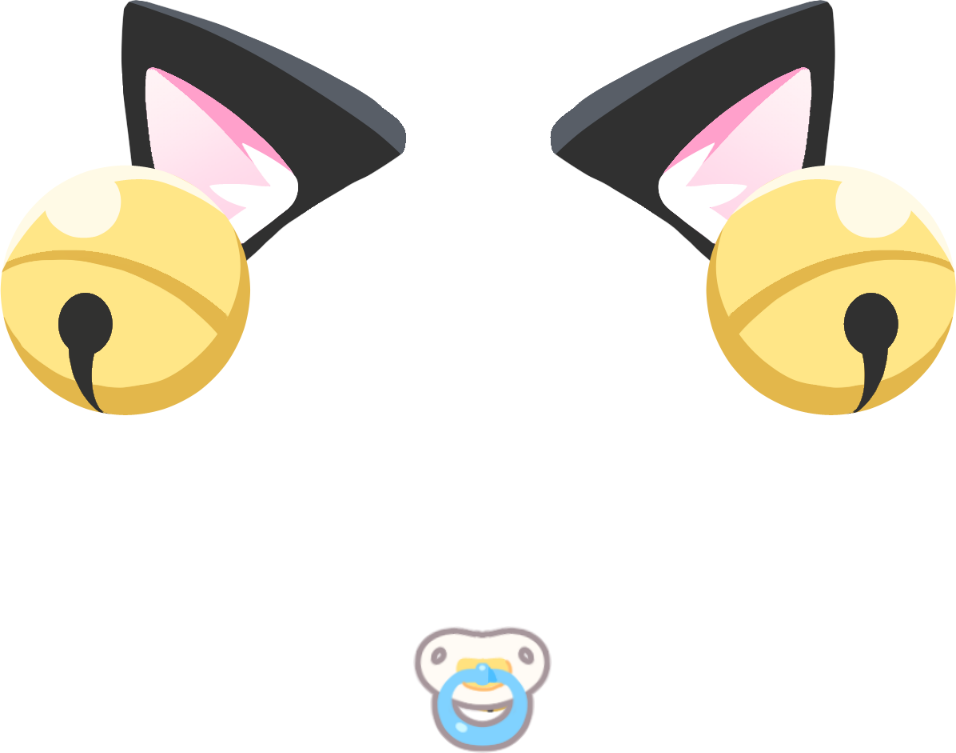
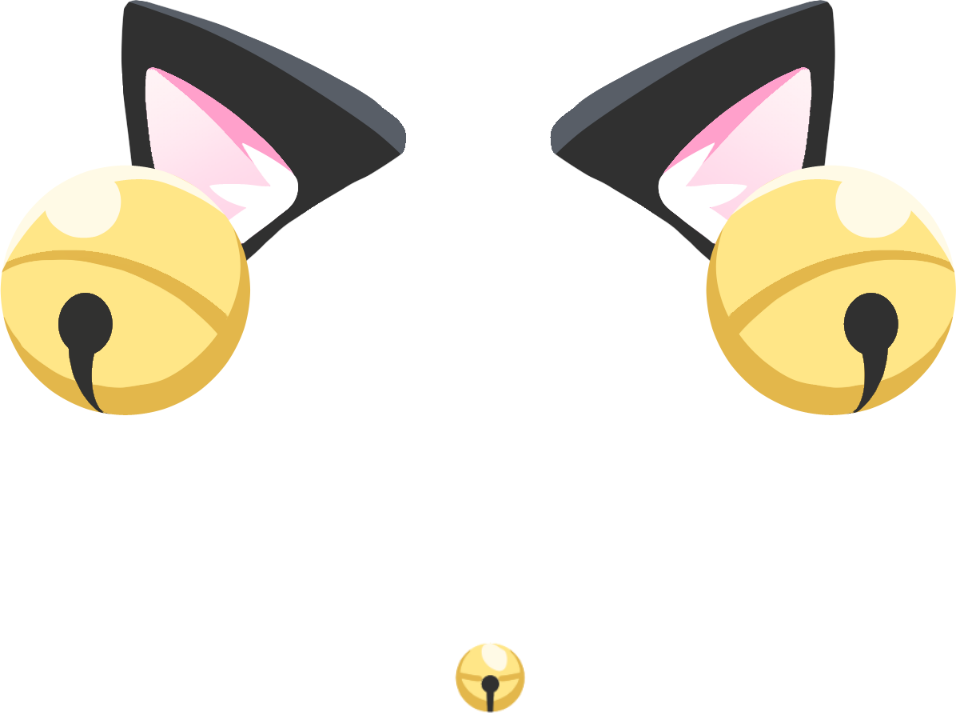
update v1787692767

diff --git a/mascot.py b/mascot.py
@@ -18234,11 +18234,11 @@ class Mascot:
             h9 = float(sz9[1]) * self.s
         except Exception:
             return
-        # **주변을 번갈아** — 왼쪽·오른쪽·위를 돌아가며, 한 번에 두세 개를
-        # 박자를 어긋내 뿅뿅 (요청: 작게 여러 개).
+        # **주변을 번갈아** — 왼쪽·오른쪽·위를 돌아가며 **한 번에 하나씩**
+        # (요청 — 여러 개를 한꺼번에 내면 겹쳐 지저분하다).
         side9 = getattr(self, "_cat_heart_side", 0)
         self._cat_heart_side = (side9 + 1) % 3
-        for j9 in range(random.randint(2, 3)):
+        for j9 in range(1):
             if side9 == 0:              # 왼쪽 곁
                 x = bx9 - w9 * random.uniform(0.05, 0.28)
                 y = by9 + yo + h9 * random.uniform(0.1, 0.7)
@@ -18248,8 +18248,6 @@ class Mascot:
             else:                       # 머리 위
                 x = bx9 + w9 * random.uniform(0.2, 0.8)
                 y = by9 + yo - h9 * random.uniform(0.0, 0.25)
-            # 자리·속도·수명을 제각각 주면 같은 박자에 태어나도 흩어져
-            # '번갈아 뿅뿅'으로 보인다.
             life = random.randint(24, 38)
             self.notes.append([x, y, random.uniform(-0.35, 0.35),
                                random.uniform(0.7, 1.15),
